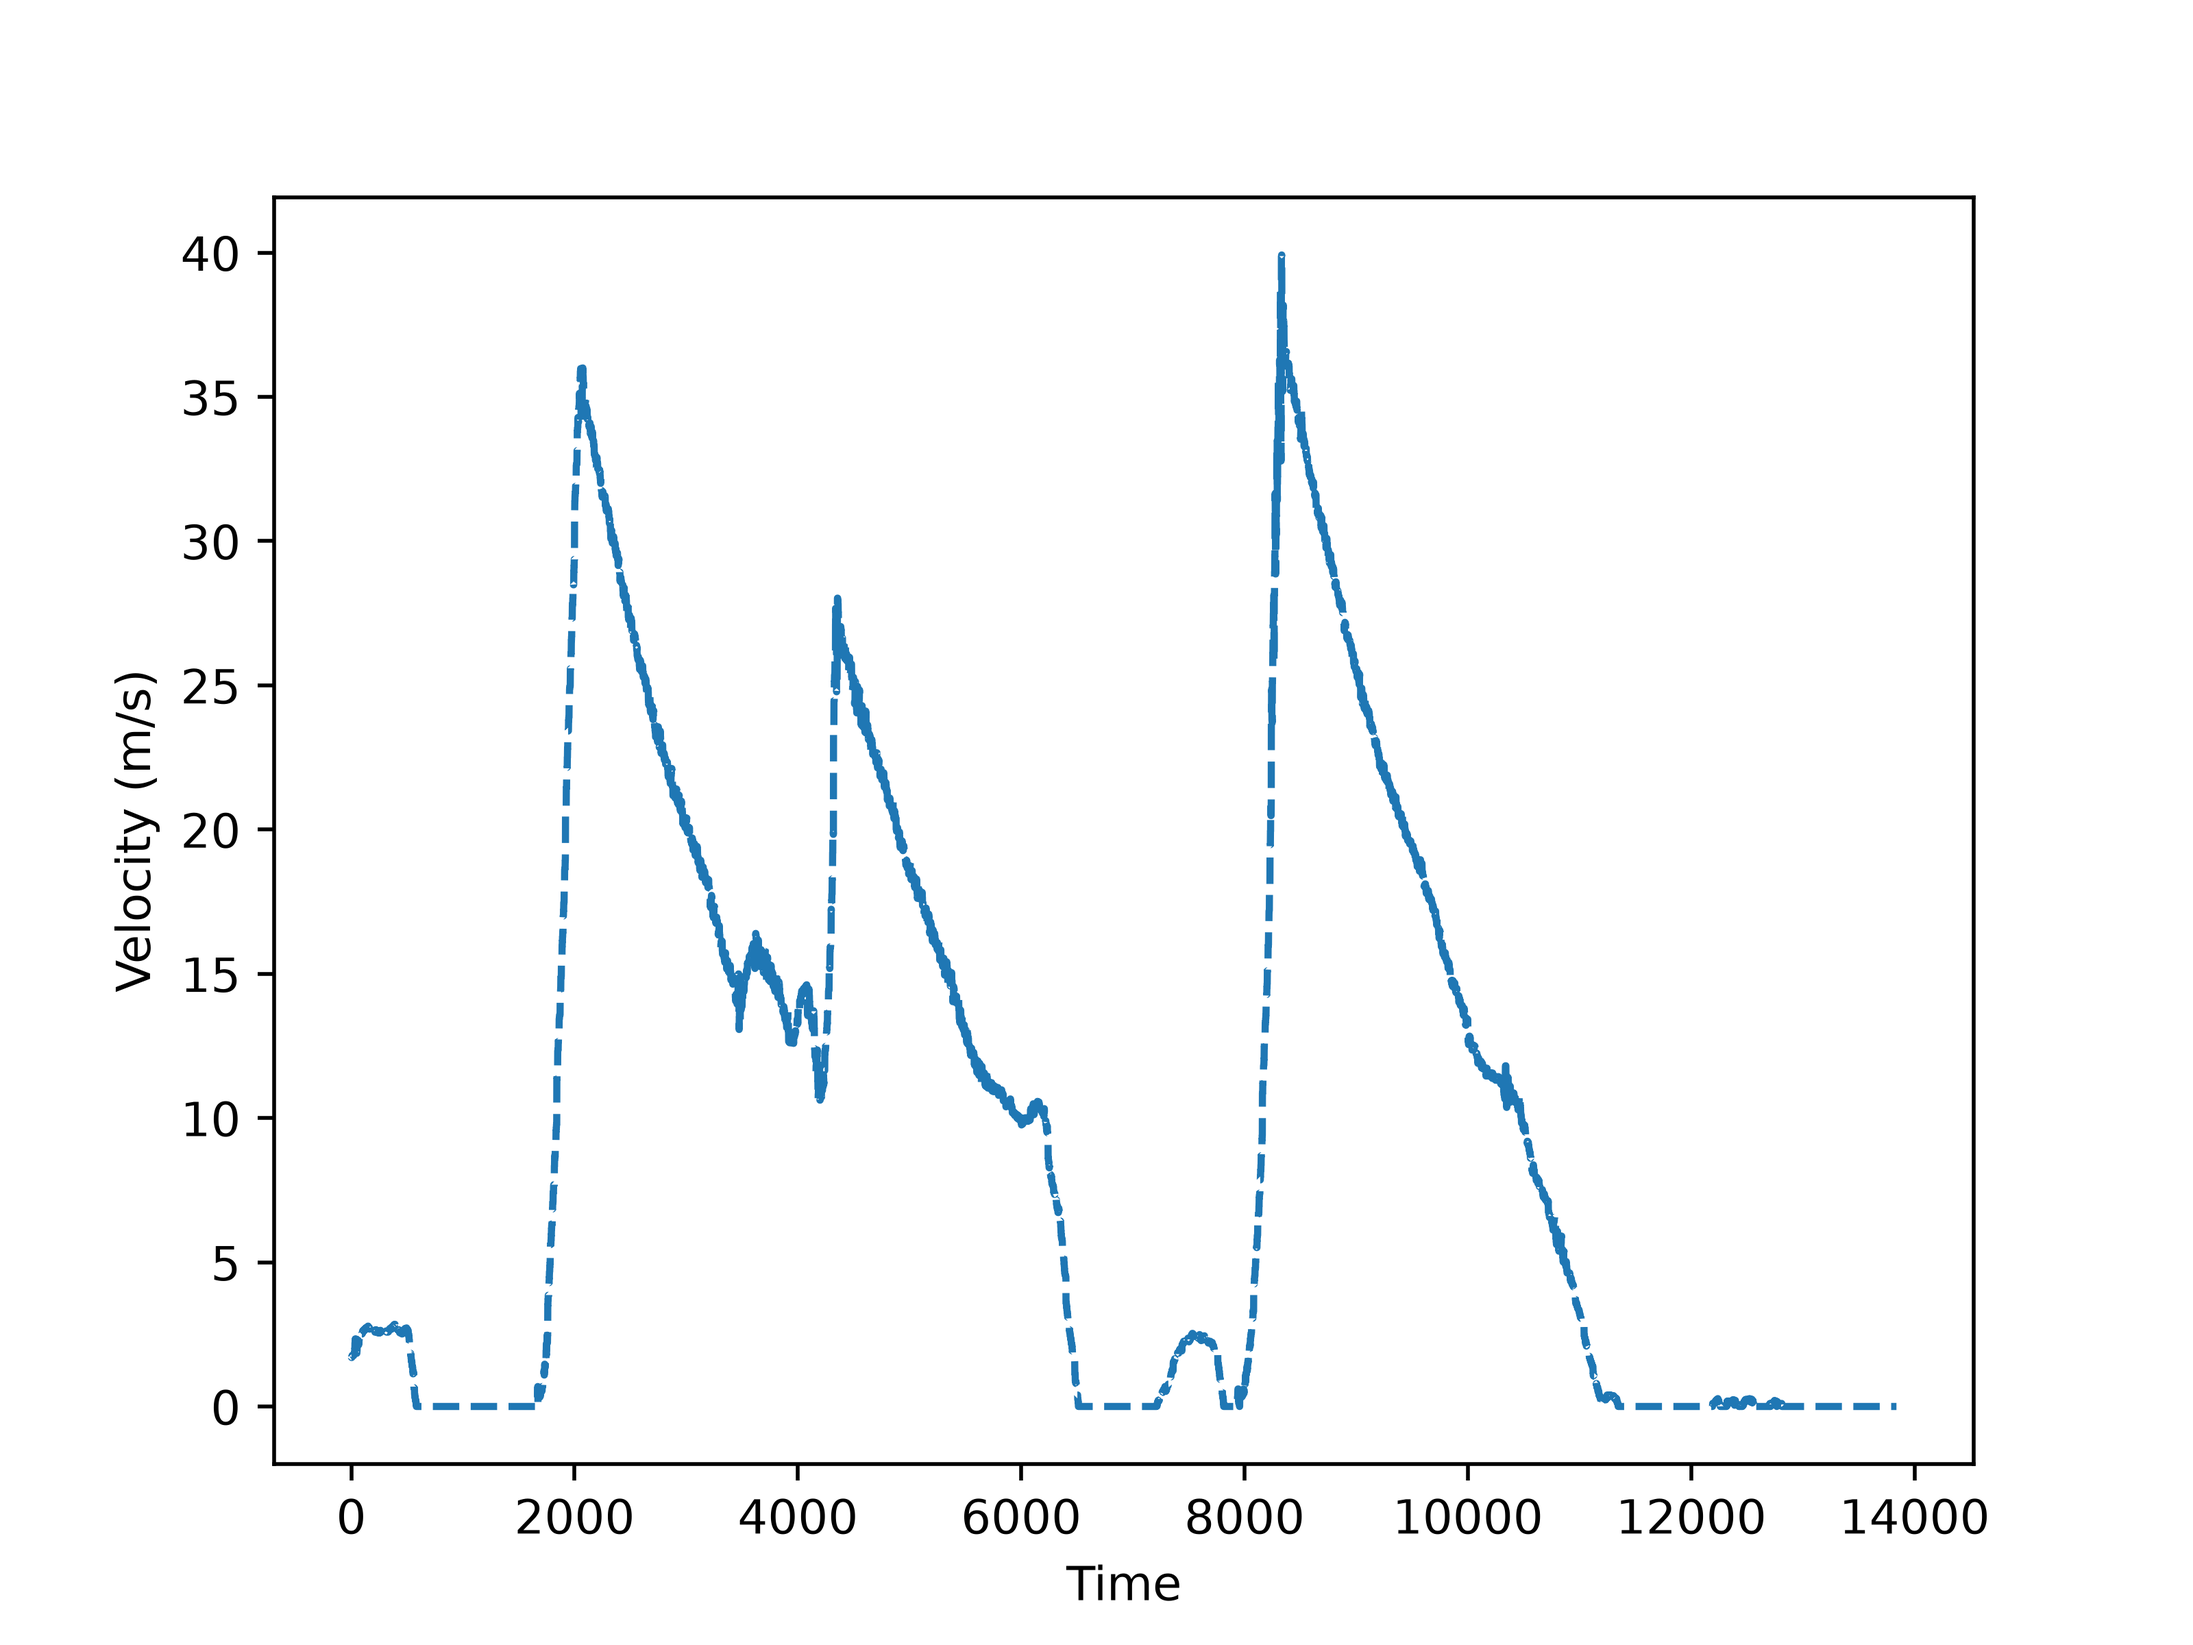
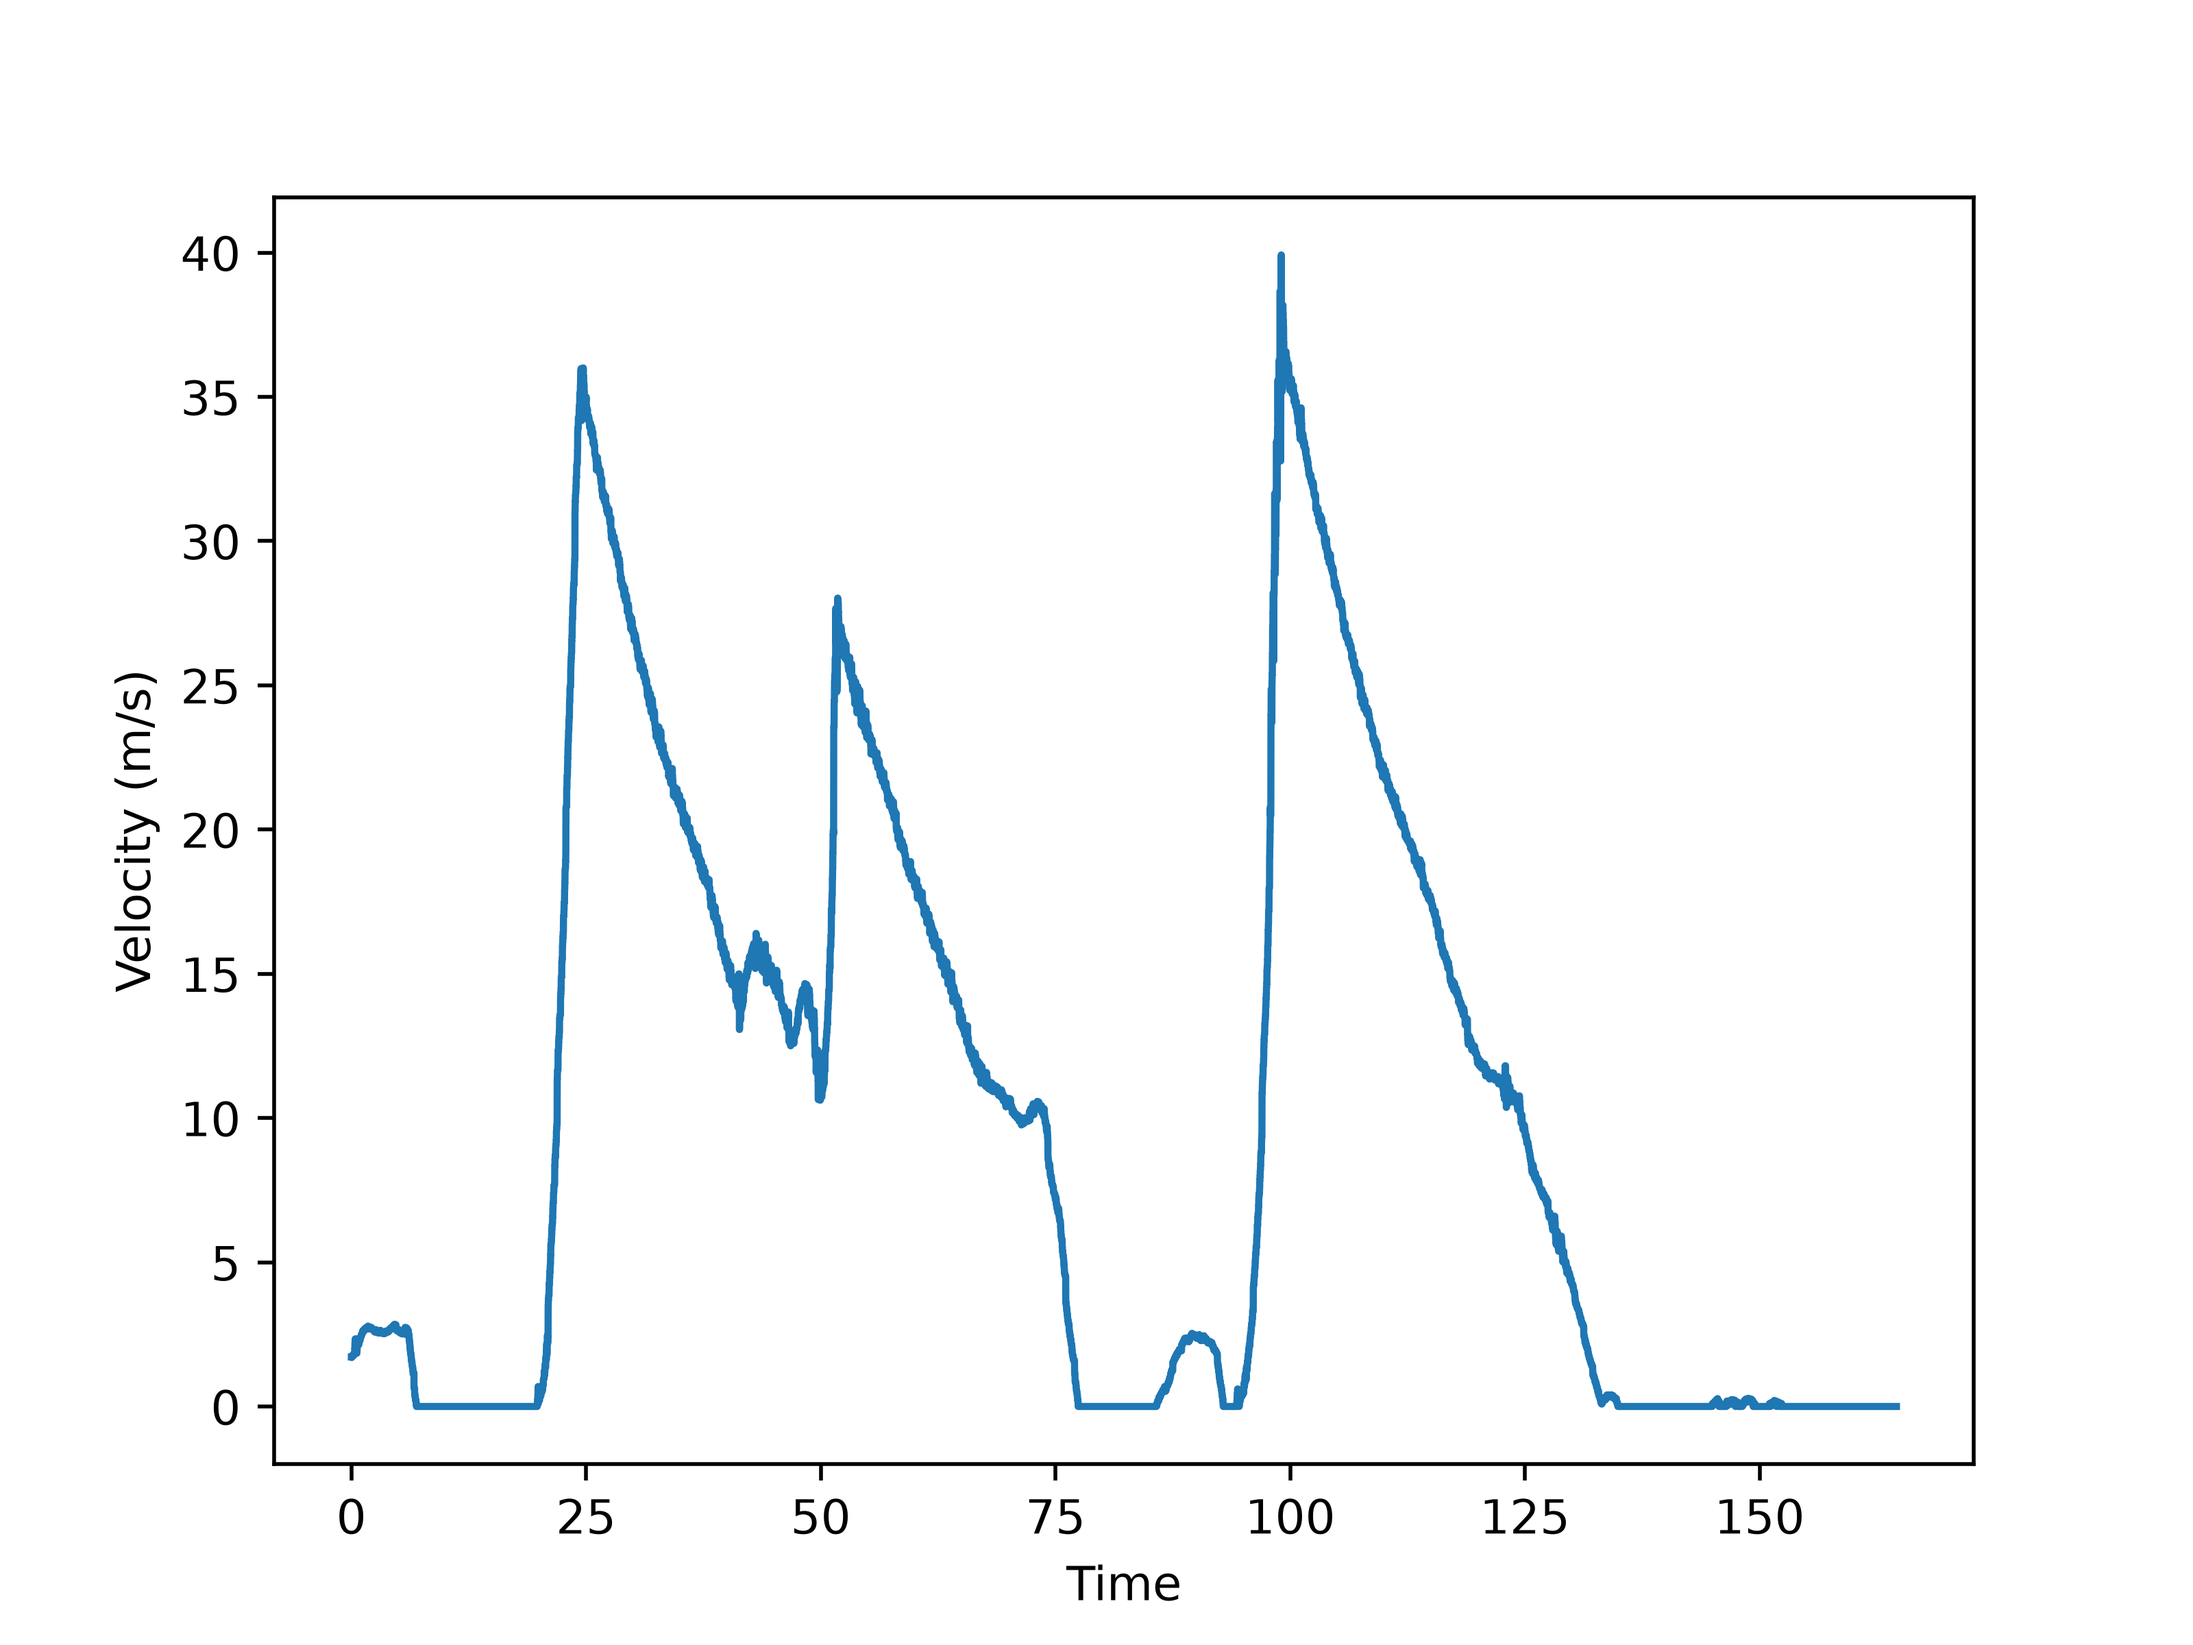
finished through till step 7

diff --git a/data/onboarding_main.py b/data/onboarding_main.py
@@ -1,0 +1,172 @@
+import polars as pl
+import matplotlib.pyplot as plt
+import numpy as np
+import math
+
+# 1. Read csv file into a dataframe
+df = pl.read_parquet('software-data.parquet')
+df_speed = df.select('SME_TRQSPD_Speed')
+print(df)
+print(df_speed)
+
+#function applies the velocity calculations given the wheel rpm, could also be adjusted to motor rpm 
+#if needed (just add gear ratio)
+def velocity_calculations(wheel_rpm):
+    return (wheel_rpm*(2*(math.pi)/60)*.2)
+
+#in order to find ground velocity, or just the velocity of the car, apply the velocity_calculations
+#to convert the wheel rpm data into a dataframe with the ground velocity at each time to plot
+df_ground_velocity = df.with_columns(
+    pl.col("SME_TRQSPD_Speed")
+    .map_elements(velocity_calculations, return_dtype=pl.Float64)
+    .alias("ground_velocity")
+)
+
+y_values_velocity = df_ground_velocity["ground_velocity"]
+x_values_velocity = df.select('Time')
+
+plt.plot(x_values_velocity,y_values_velocity,linestyle="-")
+plt.xlabel("Time")
+plt.ylabel("Velocity (m/s)")
+
+plt.savefig("ground_velocity.png", dpi=500)
+
+
+#this function will determine whether the car is accelerating, braking, or coasting. To determine this,
+#I have set my parameters for coasting at -.1 m/s^2 to .05 m/s^2. I chose these parameters based on what 
+#I found on sae vehicles as their typical coasting acceleration, and accelerating time frames are whenever
+#the acceleration is greater than .05 m/s^2, and braking is when it is less than -.1 m/s^2
+
+WINDOW_S = .5   #this right here sets the window for which I will be evaluating acceleration, or rather 
+
+accel_df = (
+    df_ground_velocity
+    .with_columns((pl.col("Time") / WINDOW_S).cast(pl.Int64).alias("window"))
+    .group_by("window", maintain_order=True)
+    .agg(
+        pl.col("Time").first().alias("time_start"),
+        pl.col("Time").last().alias("time_end"),
+        pl.col("ground_velocity").first().alias("car_start"),
+        pl.col("ground_velocity").last().alias("car_end"),
+    )
+    .with_columns(
+        ((pl.col("car_end") - pl.col("car_start")) / (pl.col("time_end") - pl.col("time_start")))
+        .alias("accel"),
+        ((pl.col("time_start") + pl.col("time_end")) / 2).alias("time_mid"),
+    )
+    .drop_nulls("accel")
+)
+
+#based off of data online about SAE vehicles, the typical coasting acceleration of the car should be
+#in between about -0.4 m/s^2 and .05 m/s^2, so I made these my parameters for the different states of
+#the car in order to account for wind resistance, drag, and regen braking
+COAST_LOW = -.5
+COAST_HIGH = 0.1
+
+# this uses polars version of an if-ekse-if statement in order to draw the boundaries for when the 
+#car is accelerating, braking, or coasting, and added my 
+accel_df = accel_df.with_columns(
+    pl.when(pl.col("accel") > COAST_HIGH).then(pl.lit("accelerating"))
+      .when(pl.col("accel") < COAST_LOW).then(pl.lit("braking"))
+      .otherwise(pl.lit("coasting"))
+      .alias("state")
+)
+
+# Time frames: merge consecutive windows with the same state
+segments = (
+    accel_df
+    .with_columns(pl.col("state").rle_id().alias("run_id"))
+    .group_by("run_id", maintain_order=True)
+    .agg(
+        pl.col("state").first(),
+        pl.col("time_start").min().alias("start"),
+        pl.col("time_end").max().alias("end"),
+    )
+)
+
+
+# Three graphs, one per state
+fig, axes = plt.subplots(3, 1, sharex=True, figsize=(10, 9), constrained_layout=True)
+for ax, state, color in zip(
+    axes, ["accelerating", "braking", "coasting"], ["tab:green", "tab:red", "tab:blue"]
+):
+    sub = accel_df.filter(pl.col("state") == state)
+    ax.scatter(sub["time_mid"], sub["accel"], color=color, s=12)
+    ax.axhline(COAST_HIGH, color="gray", linestyle="-")
+    ax.axhline(COAST_LOW, color="gray", linestyle="-")
+    ax.set_title(state)
+    ax.set_ylabel("Acceleration (m/s²)")
+
+axes[-1].set_xlabel("Time (s)")
+plt.savefig("states_over_time.png", dpi=500)
+
+accel_df = accel_df.with_columns(
+    ((pl.col("car_start") + pl.col("car_end")) / 2).alias("v_mean")
+)
+
+accelerating_df = accel_df.filter(pl.col("state") == "accelerating")
+braking_df      = accel_df.filter(pl.col("state") == "braking")
+coasting_df     = accel_df.filter(pl.col("state") == "coasting")
+
+# Overall stats
+print("Max speed (m/s):", df_ground_velocity["ground_velocity"].max())
+print("Max acceleration (m/s^2):", accelerating_df["accel"].max())
+
+print("Time accelerating (s):", accelerating_df.height * WINDOW_S)
+print("Time coasting (s):", coasting_df.height * WINDOW_S)
+
+# This will remove anything below 5 m/s
+coasting_fast = coasting_df.filter(pl.col("v_mean") >= 5).sort("window")
+
+# 2. a new stretch starts whenever consecutive windows aren't exactly 1 apart
+coasting_fast = coasting_fast.with_columns(
+    (pl.col("window") - pl.col("window").shift() != 1)
+    .fill_null(True)
+    .cum_sum()
+    .alias("run_id")
+)
+
+# 3. measure each stretch and drop anything under 1 second
+coast_segments = (
+    coasting_fast
+    .group_by("run_id", maintain_order=True)
+    .agg(
+        pl.col("time_start").min().alias("start"),
+        pl.col("time_end").max().alias("end"),
+        (pl.len() * WINDOW_S).alias("duration_s"),
+    )
+    .filter(pl.col("duration_s") >= 1)
+)
+
+# 4. keep only coasting rows that belong to a surviving stretch
+coasting_clean = coasting_fast.filter(pl.col("run_id").is_in(coast_segments["run_id"]))
+
+print(coast_segments)
+print("Cleaned coasting time (s):", coasting_clean.height * WINDOW_S)
+print("Max speed while coasting (m/s):", coasting_clean["car_end"].max())
+
+car_mass     = 221.4     # kg
+effective_mass = 244.08    # kg
+G     = 9.81
+air_density   = 1.225     
+
+# x = v^2, y = dv/dt
+x = (coasting_clean["v_mean"] ** 2).to_numpy()
+y = coasting_clean["accel"].to_numpy()
+
+slope, intercept = np.polyfit(x, y, 1)   # y = slope * x + intercept
+
+drag_term = -slope * effective_mass               # 0.5 * rho * Cd * A
+CdA       = drag_term / (0.5 * air_density)
+Crr       = -intercept * effective_mass / (car_mass * G)
+
+print(f"Drag Term = {drag_term:.4f}")
+print(f"CdA = {CdA:.3f} m^2")
+print(f"Rolling Resistance = {Crr:.4f}")
+
+plt.figure()
+plt.scatter(x, y, s=12)
+plt.plot(x, slope * x + intercept, color="red")
+plt.xlabel("v² (m²/s²)")
+plt.ylabel("dv/dt (m/s²)")
+plt.savefig("coastdown_fit.png", dpi=300)

diff --git a/data/lapdata.py b/data/lapdata.py
@@ -1,0 +1,18 @@
+import matplotlib.pyplot as plt
+import polars as pl
+
+df = pl.read_parquet('software-data.parquet')
+df = df.filter(
+    (pl.col('VDM_GPS_Latitude') != 0) & (pl.col('VDM_GPS_Longitude') != 0)
+).drop_nulls(['VDM_GPS_Latitude', 'VDM_GPS_Longitude'])
+
+x = df['VDM_GPS_Longitude']
+y = df['VDM_GPS_Latitude']
+
+plt.figure(figsize=(8, 8))
+plt.plot(x, y, linewidth=2)
+plt.scatter(x[0], y[0], c='green', label='start', zorder=3)
+plt.scatter(x[-1], y[-1], c='red', label='end', zorder=3)
+plt.axis('equal')
+plt.legend()
+plt.savefig("laps.png", dpi=300)

diff --git a/data/projects.md b/data/projects.md
@@ -18,6 +18,7 @@ There are three different brake related signals. ETC_STATUS_BRAKELIGHT is a simp
 2. a) Using matplotlib, graph the speed of the car vs time. Refer to the [data_columns.csv](https://github.com/formulaslug/fs-5-software-intro-projects/blob/main/data/data_columns.csv) to know which column means what. Use that graph to find the speed of the car at 10s. To find the speed of the car, use 'SME_TRQSPD_Speed.' It is measured in RPM which you will need to convert. Please refer to the physics section below for the explanation. 
 3. Give a time frame for when the car is accelerating, braking, and coasting. Explain how you found these values out. Then plot those states over time on three different graphs
 4. Find out how many laps the car drove as well as the start and end time for each lap. The car has a GPS system you can utilize to visualize this. Provide a screenshot of your method along with an explanation of how you went about finding this.
+#use latitude and longitude, when the car gets back to the same latitude and longitude, as the start, then a lap has been completed
 5. Using the lap times found from part 4, determine the max speed, max acceleration, time spent accelerating, and time spent coasting. 
 6. From the coasting data (from all laps), remove anything below 5 m/s and anything below a second. 
 7. Use that coast down data to determine vehicle drag + rolling resistance. Please refer below for the explanation of the physics. 
